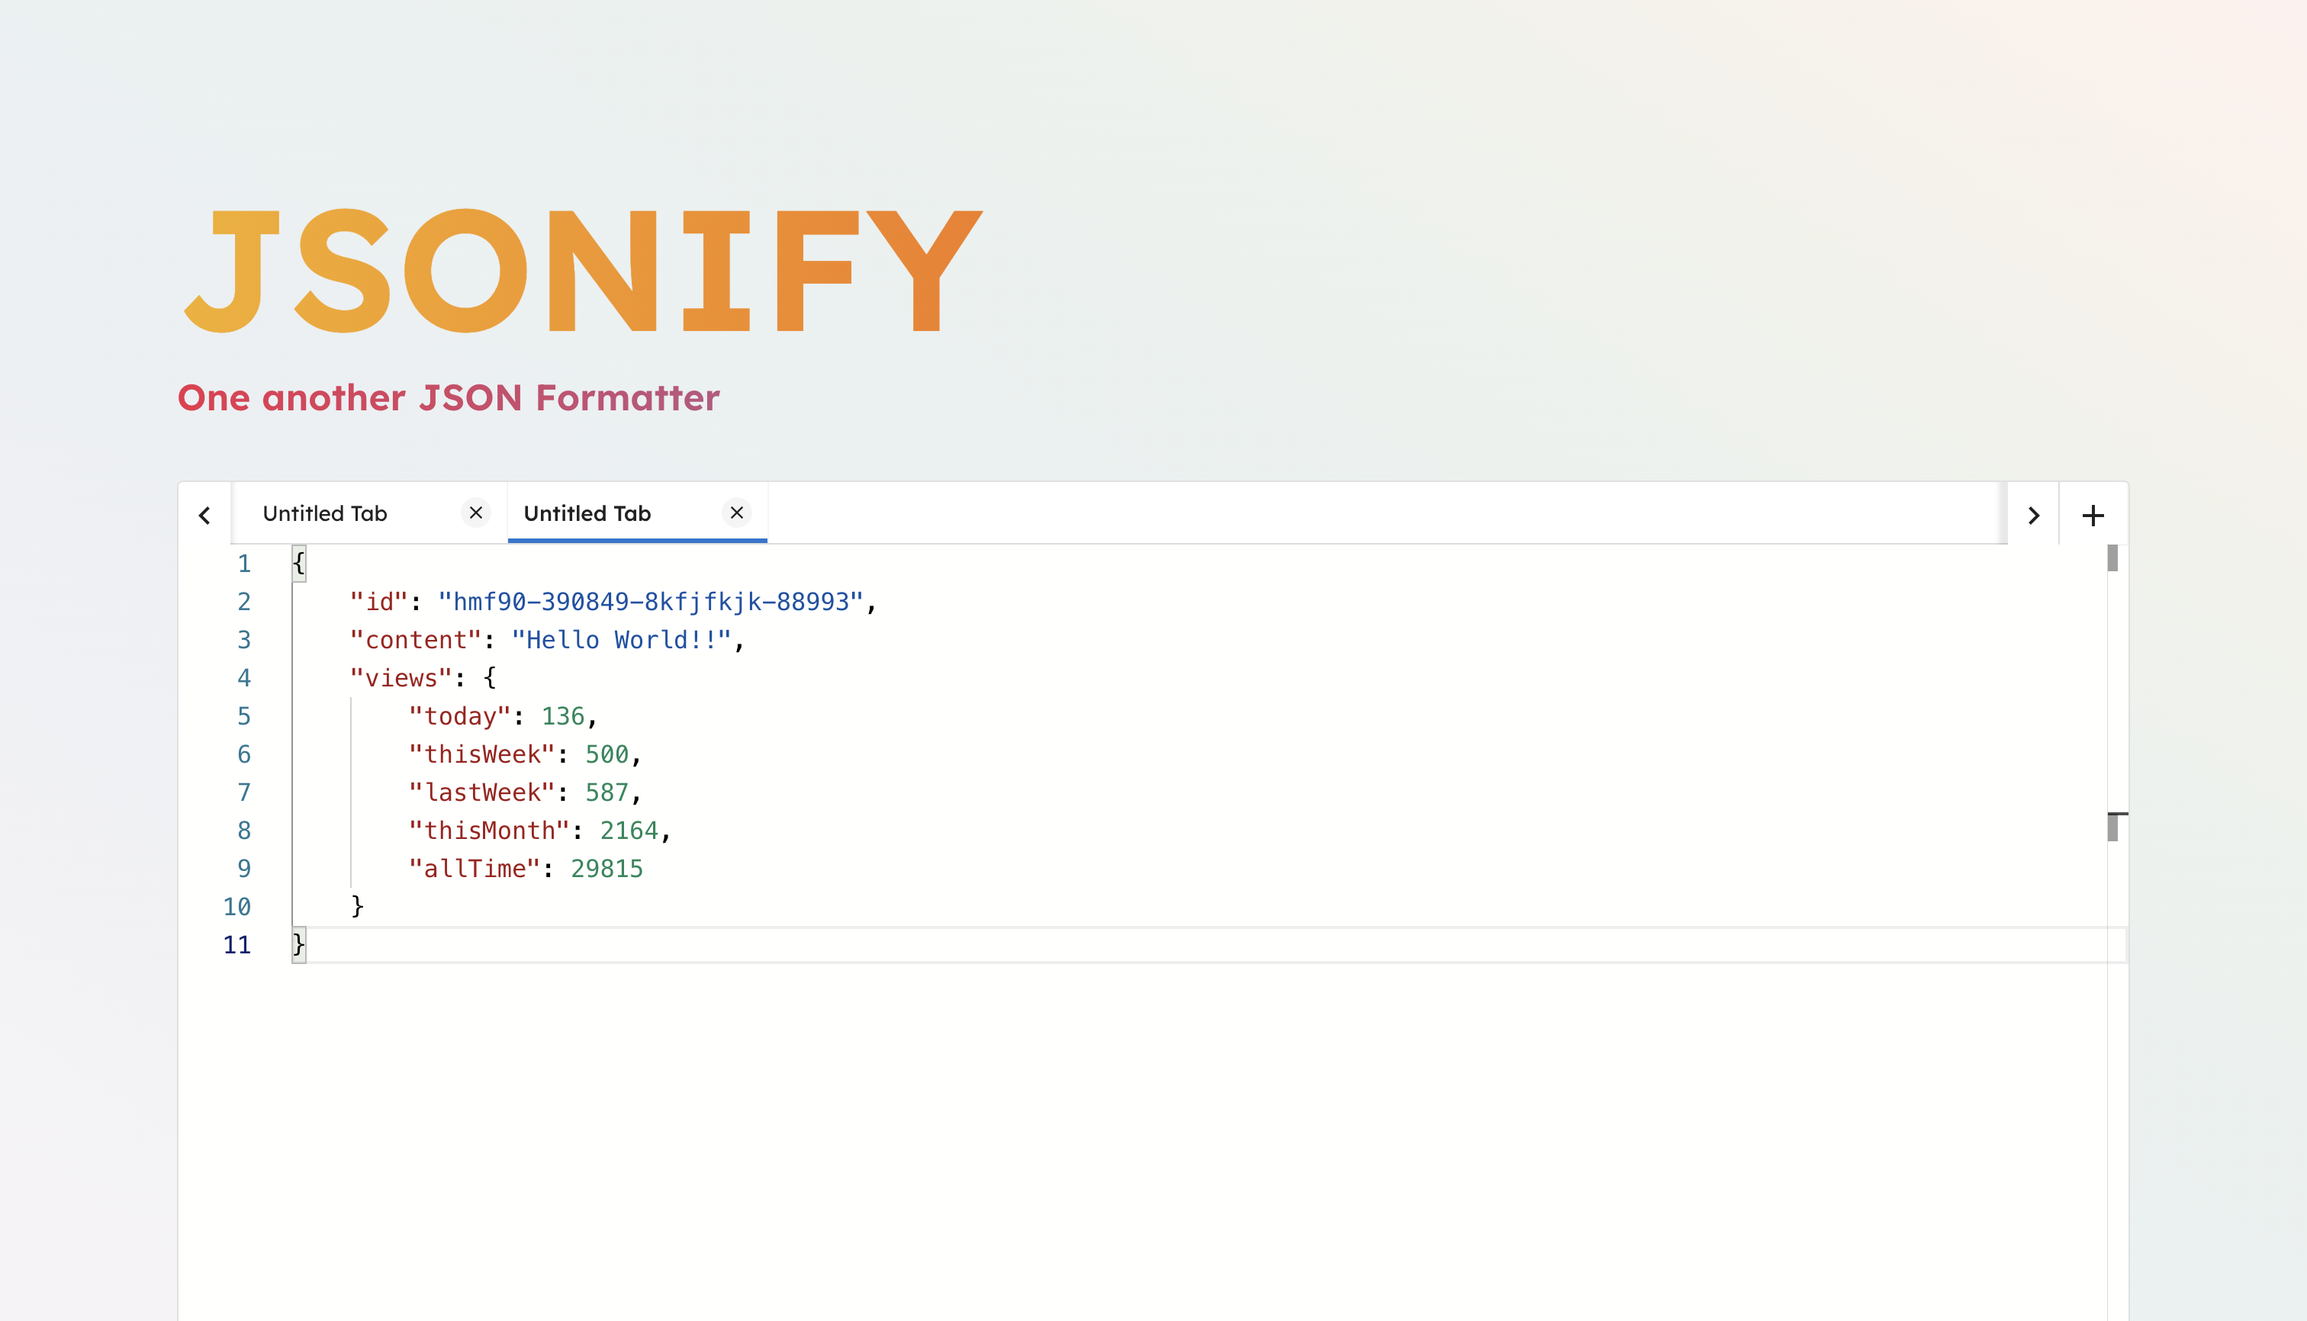
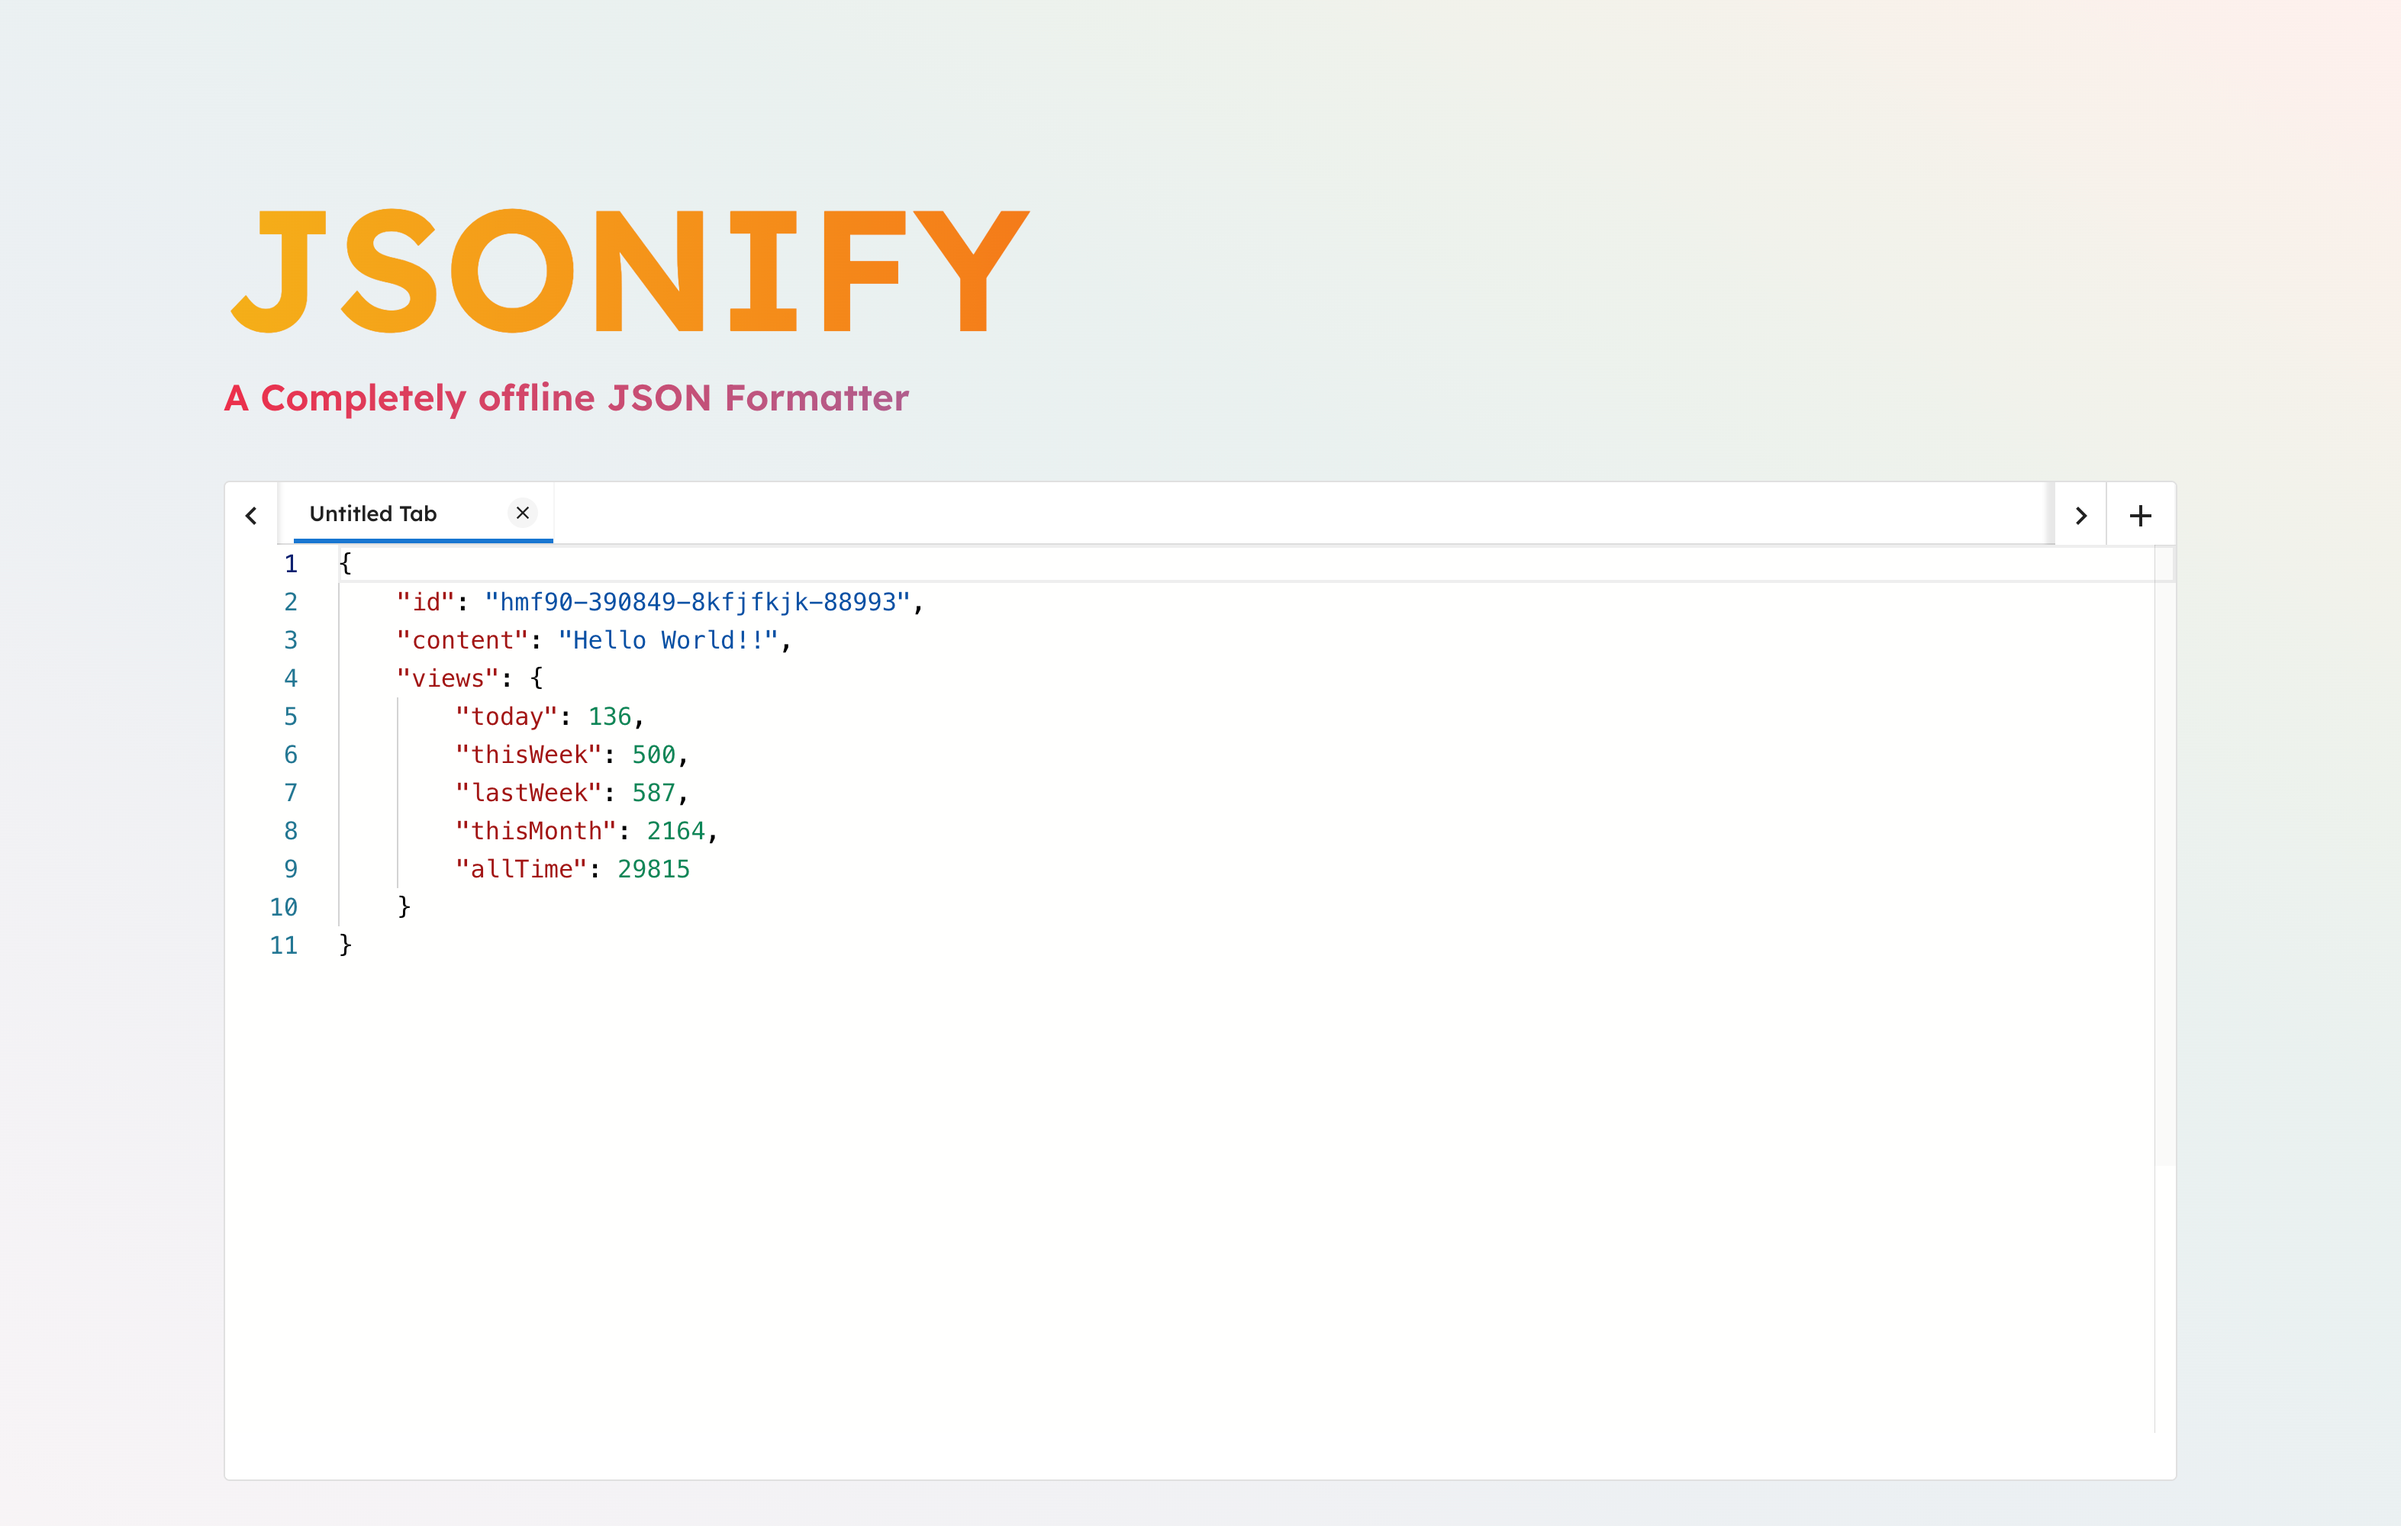
update readme and image

Changed region(s): [[0.0622, 0.1247, 0.4352, 0.6859], [0.0933, 0.5612, 0.1243, 0.6236], [0.9015, 0.4053, 0.9325, 0.4365]]

diff --git a/public/index.html b/public/index.html
@@ -6,20 +6,22 @@
     <meta name="theme-color" content="#000000"/>
     <meta
         name="description"
-        content="One another JSON Formatter"
+        content="One other JSON Formatter, which tidies up JSON data with proper indentation and syntax highlighting for improved readability."
     />
     <meta
         name="og:description"
-        content="One another JSON Formatter"
+        content="One other JSON Formatter, which tidies up JSON data with proper indentation and syntax highlighting for improved readability."
     />
     <meta
         name="og:title"
-        content="Jsonify"
+        content="Jsonify | A JSON Formatter"
     />
     <meta name="url" content="https://jsonify.anoclap.com"/>
     <meta name="og:url" content="https://jsonify.anoclap.com"/>
     <meta name="image" content="https://jsonify.anoclap.com/image.png"/>
     <meta name="og:image" content="https://jsonify.anoclap.com/image.png"/>
+    <meta name="keywords" content="json lint, json formatter, JSON, Pretty printing, Indentation, lint">
+
     <link rel="apple-touch-icon" href="%PUBLIC_URL%/logo192.png"/>
     <!--
       manifest.json provides metadata used when your web app is installed on a
@@ -34,7 +36,7 @@
       work correctly both with client-side routing and a non-root public URL.
       Learn how to configure a non-root public URL by running `npm run build`.
     -->
-    <title>Jsonify</title>
+    <title>Jsonify | A JSON Formatter</title>
     <link rel="preconnect" href="https://fonts.googleapis.com">
     <link rel="preconnect" href="https://fonts.gstatic.com" crossorigin>
     <link href="https://fonts.googleapis.com/css2?family=Lexend:wght@100;200;300;400;500;600&display=swap"
@@ -43,6 +45,7 @@
         rel="stylesheet"
         href="https://fonts.googleapis.com/icon?family=Material+Icons"
     />
+    <meta name="robots" content="index, follow">
     <!-- Google Tag Manager -->
     <script>(function (w, d, s, l, i) {
         w[l] = w[l] || [];

diff --git a/src/App.jsx b/src/App.jsx
@@ -14,7 +14,7 @@ function App() {
             <ErrorBoundary>
                 <div className="app-wrapper container">
                     <h1 className="mega-title">JSONIFY</h1>
-                    <h5 className="sub-title">One another JSON Formatter</h5>
+                    <h5 className="sub-title">A Completely offline JSON Formatter</h5>
                     <Grid container spacing={2}>
                         <Grid item xs={12}>
                             <Card variant="outlined">

diff --git a/README.md b/README.md
@@ -2,4 +2,4 @@
 <img src='https://jsonify.anoclap.com/image.png'/>
 
 # JSONIFY
-One another JSON formatter based on Monaco Editor
+Another JSON formatter that is completely offline and offers a developer-friendly interface
